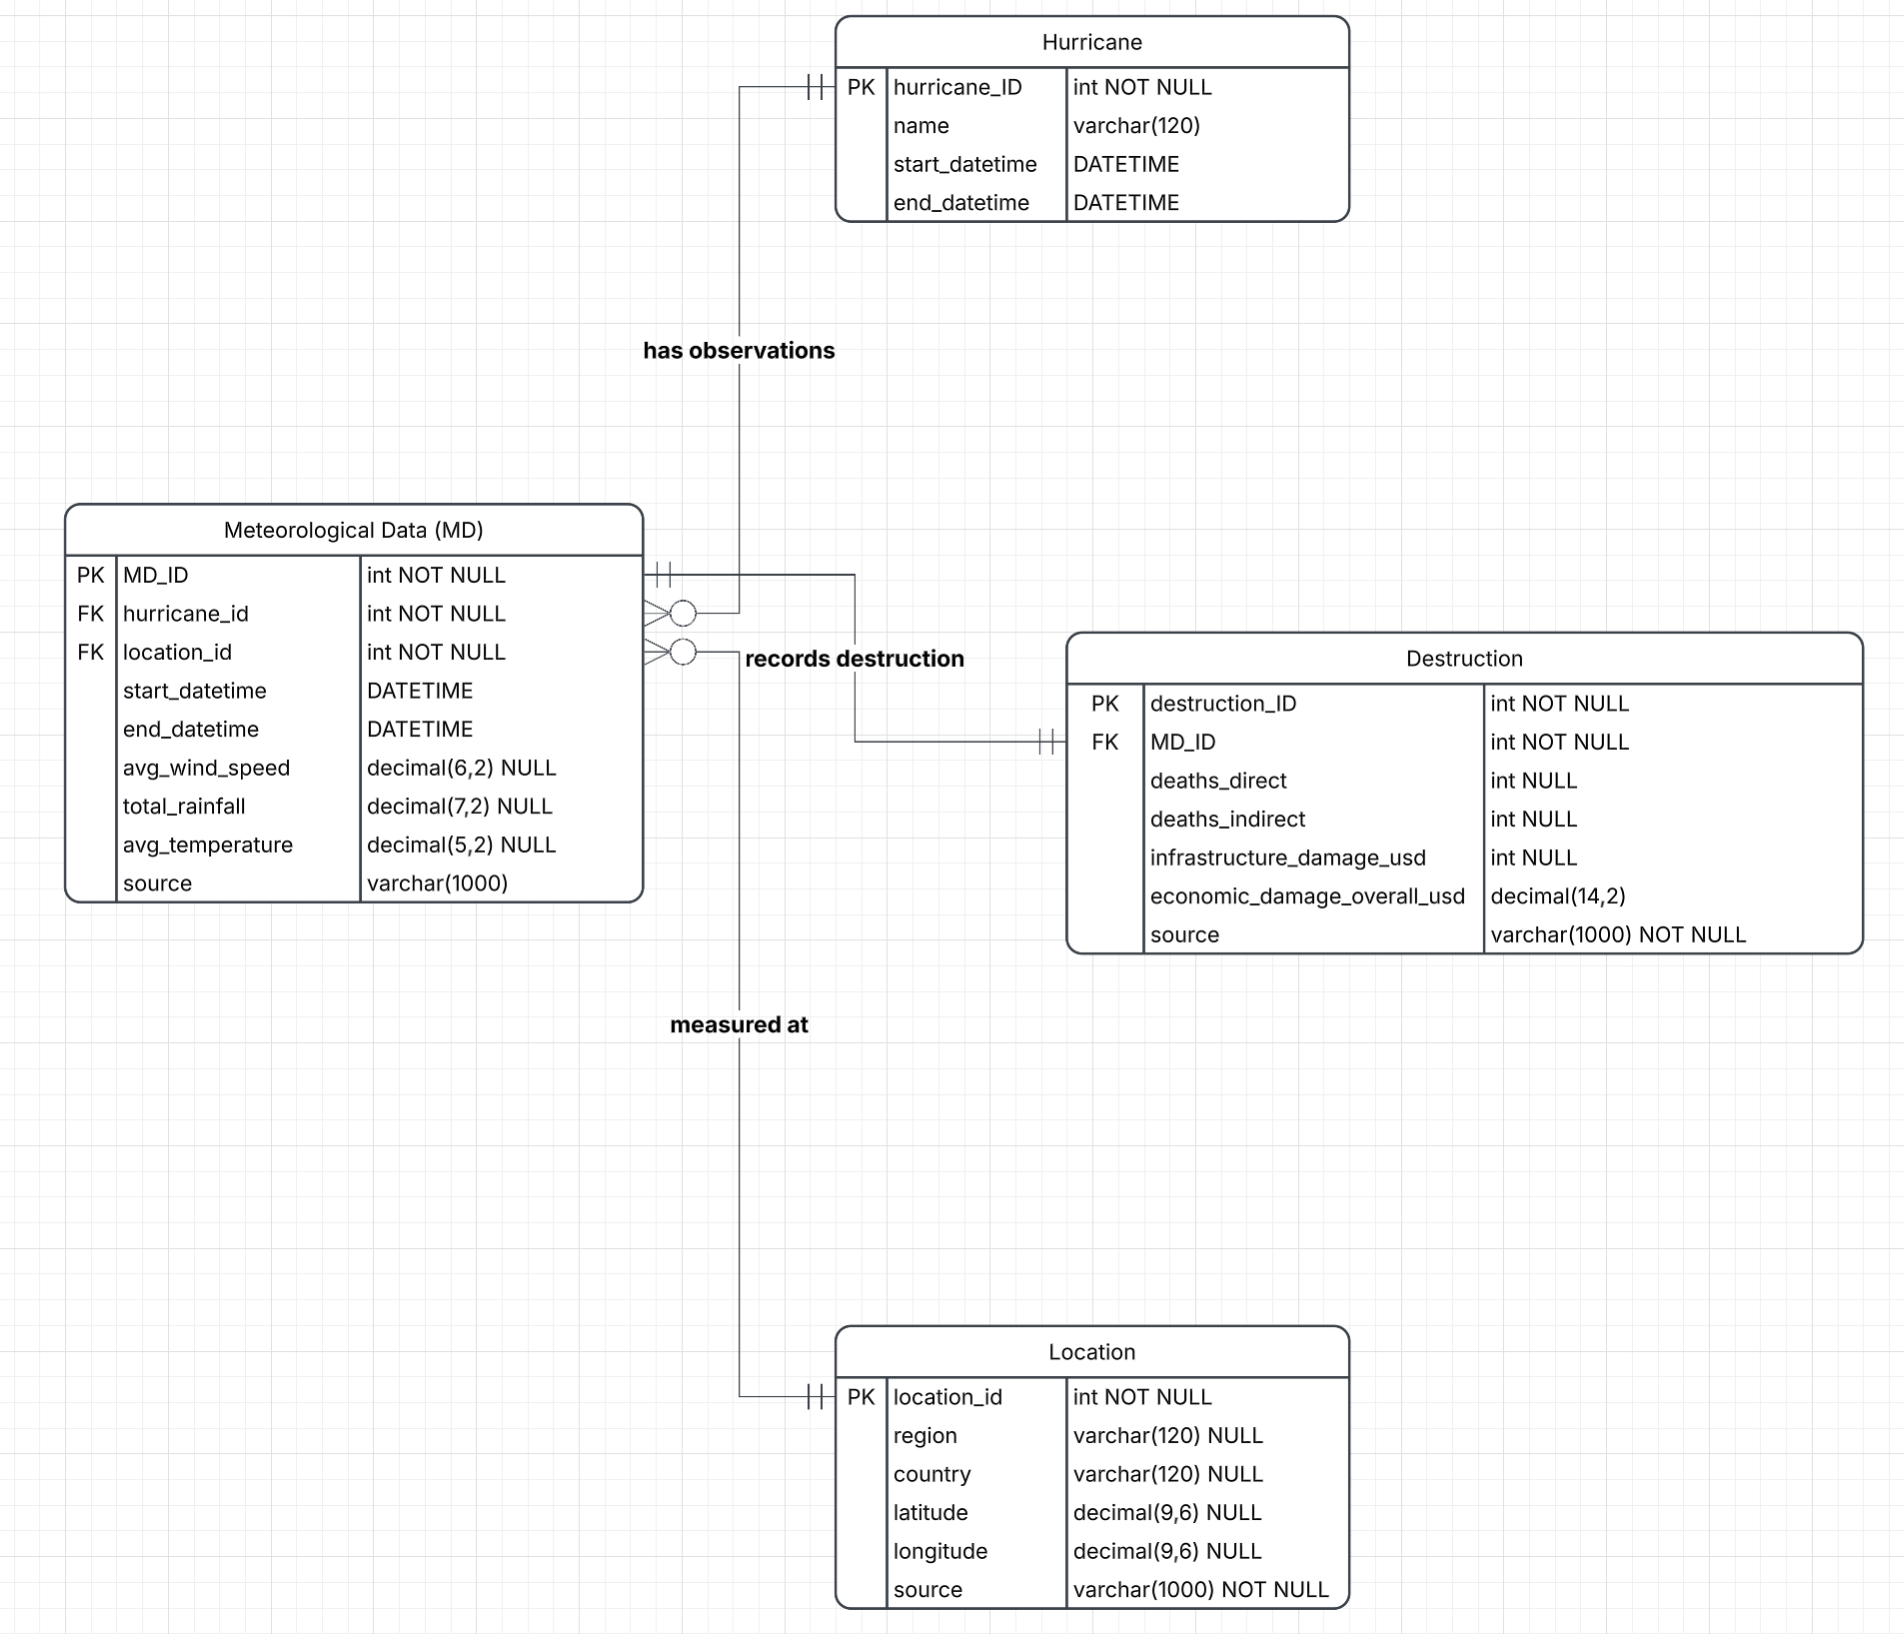
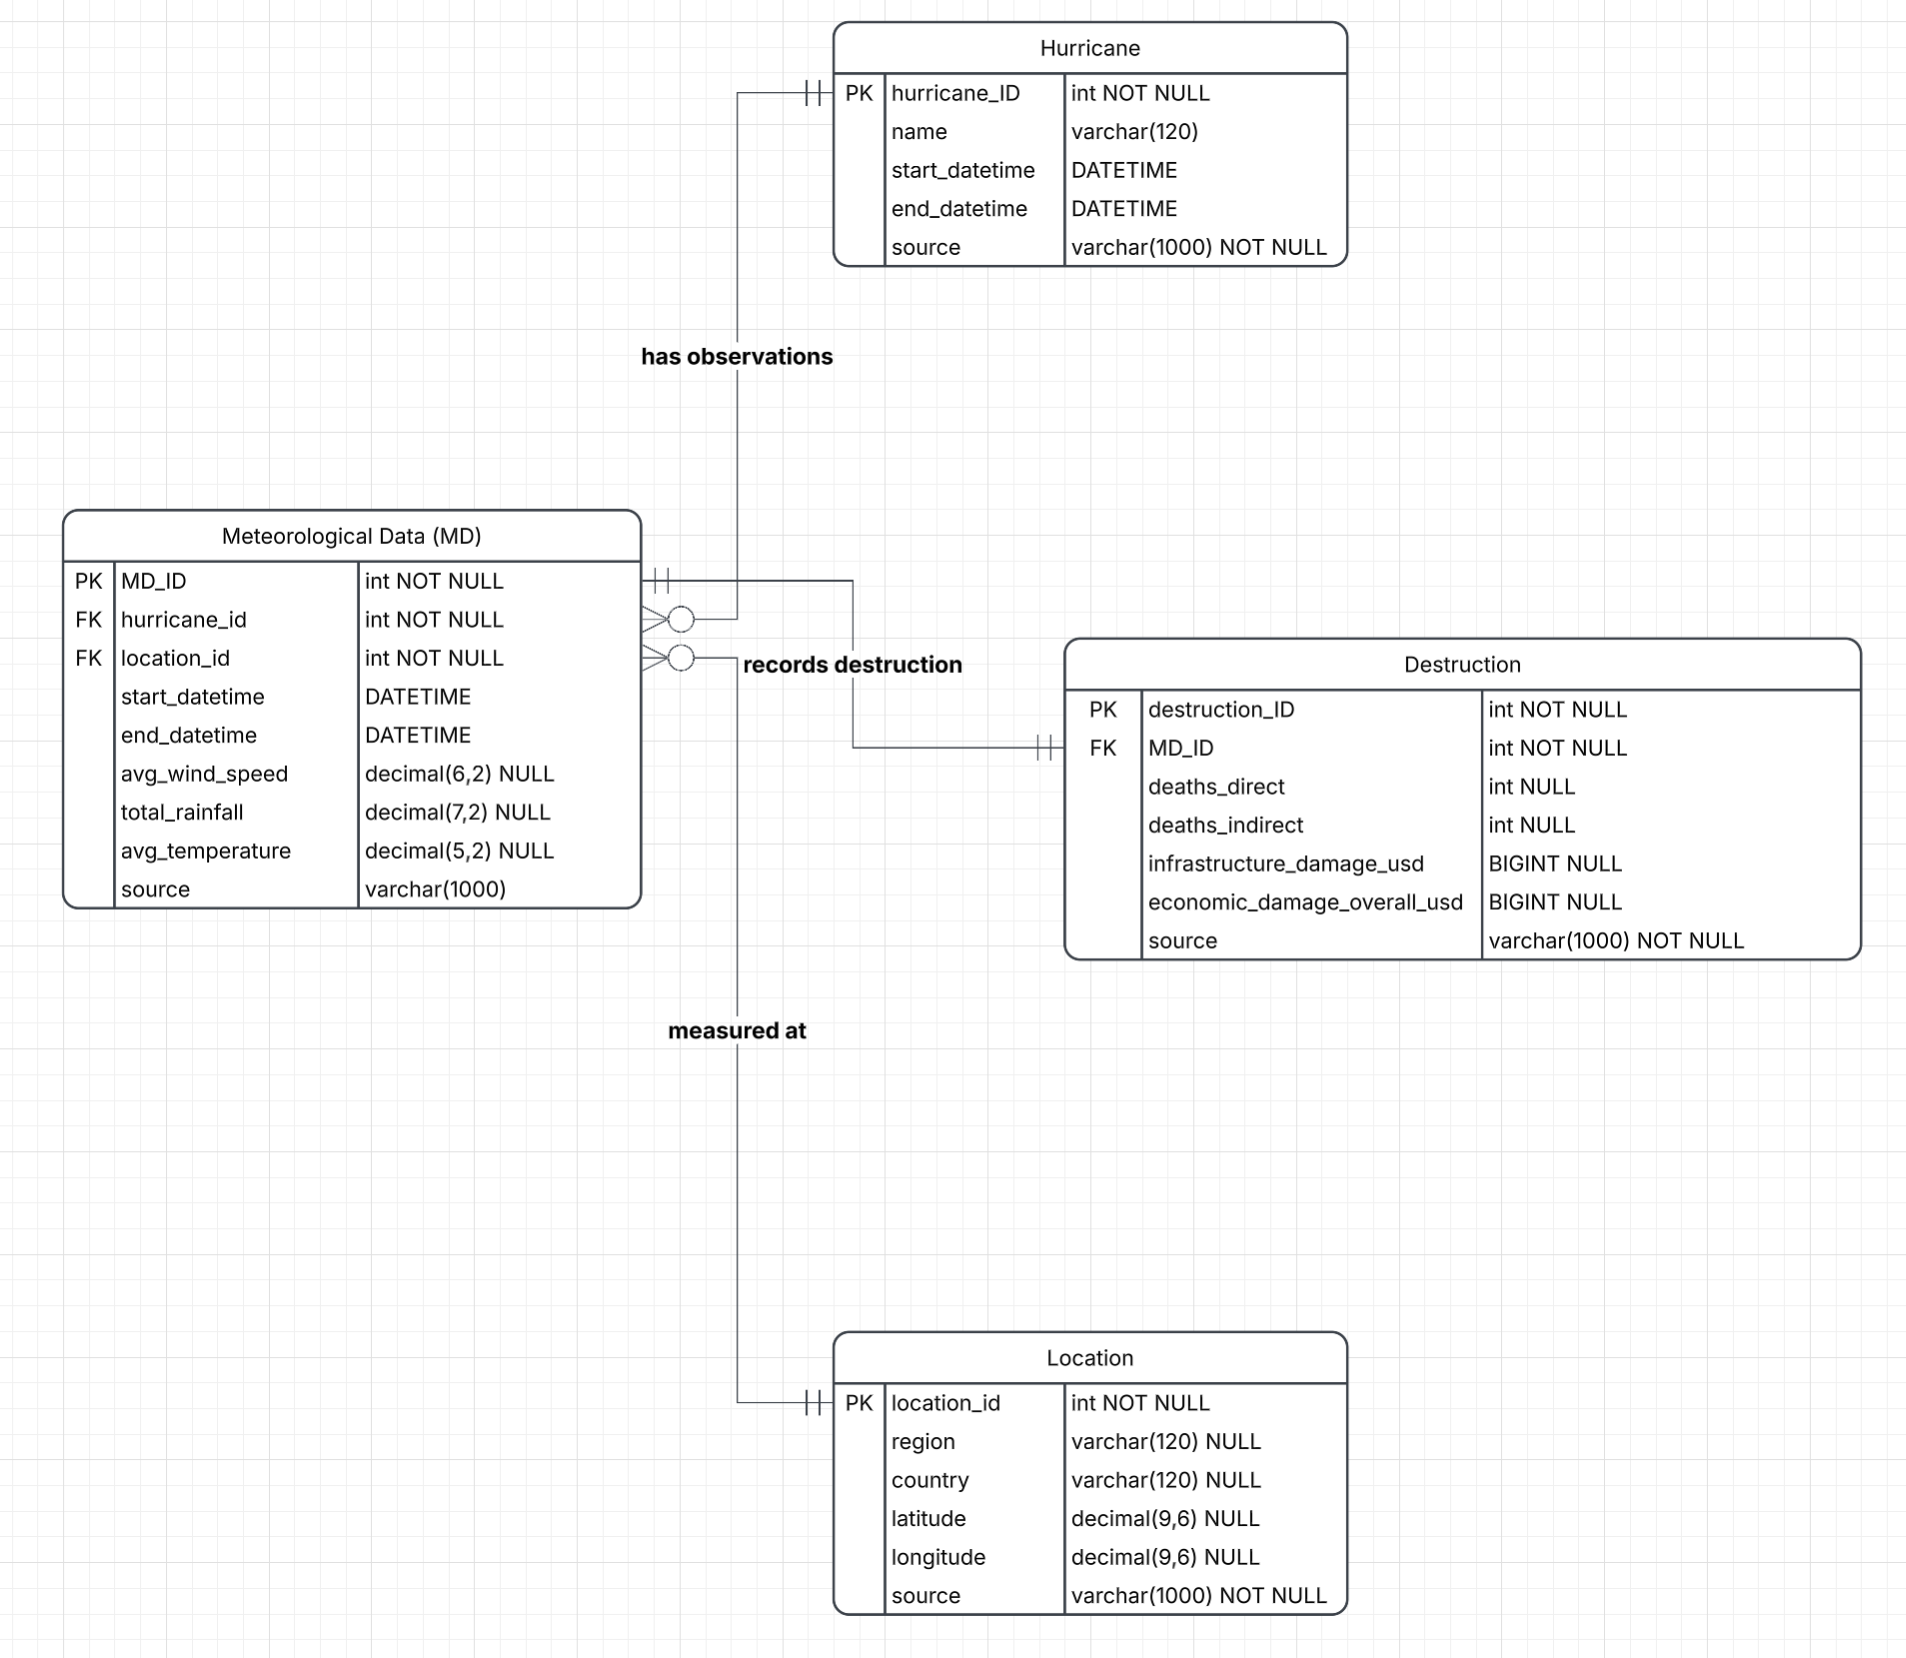
changed README

diff --git a/README.md b/README.md
@@ -42,11 +42,27 @@ Location([location_ID]:int NOT NULL, region:varchar(120), country:varchar(120), 
 # Integrating real data into our Database
 
 In week 5, our task was to find real data and integrate it with the curretn structure of DB. For our DB, we decided to insert to different hurricanes and their MD date, destruction data and location data. our two hurricanes are:
-Hurricane Melissa: [Visual Studio Code](https://www.nhc.noaa.gov/data/tcr/AL132025_Melissa.pdf)
-Hurricane Ian: [Visual Studio Code](https://www.nhc.noaa.gov/data/tcr/AL092022_Ian.pdf)
+Hurricane Melissa: [MELISSA](https://www.nhc.noaa.gov/data/tcr/AL132025_Melissa.pdf)
+Hurricane Ian: [IAN](https://www.nhc.noaa.gov/data/tcr/AL092022_Ian.pdf)
+Hurricane Fiona: [FIONA](https://www.nhc.noaa.gov/data/tcr/AL072022_Fiona.pdf)
 Other specific sources for specific values are inside the dataset.
 
 We created an Excel sheet which contains all data for all of the four entites for differnet hurricnaes. We currently have 2. The main struggles we faced, was that we found detailled infromation of Metereological Data and Location Data for the hurricanes. But finding high quality destruction data, for speific locations, a hurricane passed through was very difficult. We were able to find values for the number of direct and indirect deaths, but specific economic damage for specific locations was difficult to find. So, the missing data are labelled as null, which contextually means that information is not known for that. But with the available data, we made sure, that the data is correctly formatted and inserted coreclty to ensure consistency.
 
-Due to data inconsistency, we had to make some new changes to the constraints of attributes of our schema. This is the new ERD: 
+Due to data inconsistency, we had to make some new changes to the constraints of attributes of our schema. This is the new ERD:
 ![Getting Started](./images/ERD-2.png)
+
+Even after changing the structure of the DB, the DB stays in 3NF. 
+new schema definiton:
+
+# Relational Schema of our updated ERD
+
+PK are in [] and FK are given a star (*)
+
+Meteorological_Data([MD_ID]:int NOT NULL, hurricane_ID*:int NOT NULL, location_id*:int NOT NULL, start_datetime:DATETIME, end_datetime:DATETIME, avg_wind_speed:decimal(6,2) NULL, total_rainfall:decimal(7,2) NULL, avg_temperature:decimal(5,2) NULL, source:varchar(1000))
+
+Hurricane([hurricane_ID]:int NOT NULL, name:varchar(120), start_datetime:DATETIME, end_datetime:DATETIME, source:varchar(1000) NOT NULL)
+
+Destruction([destruction_ID]:int NOT NULL, MD_ID*:int NOT NULL, deaths_direct:int NULL, deaths_indirect:int NULL, infrastructure_damage_usd:BIGINT NULL, economic_damage_overall_usd:BIGINT NULL, source:varchar(1000) NOT NULL)
+
+Location([location_id]:int NOT NULL, region:varchar(120) NULL, country:varchar(120) NULL, latitude:decimal(9,6) NULL, longitude:decimal(9,6) NULL, source:varchar(1000) NOT NULL)
